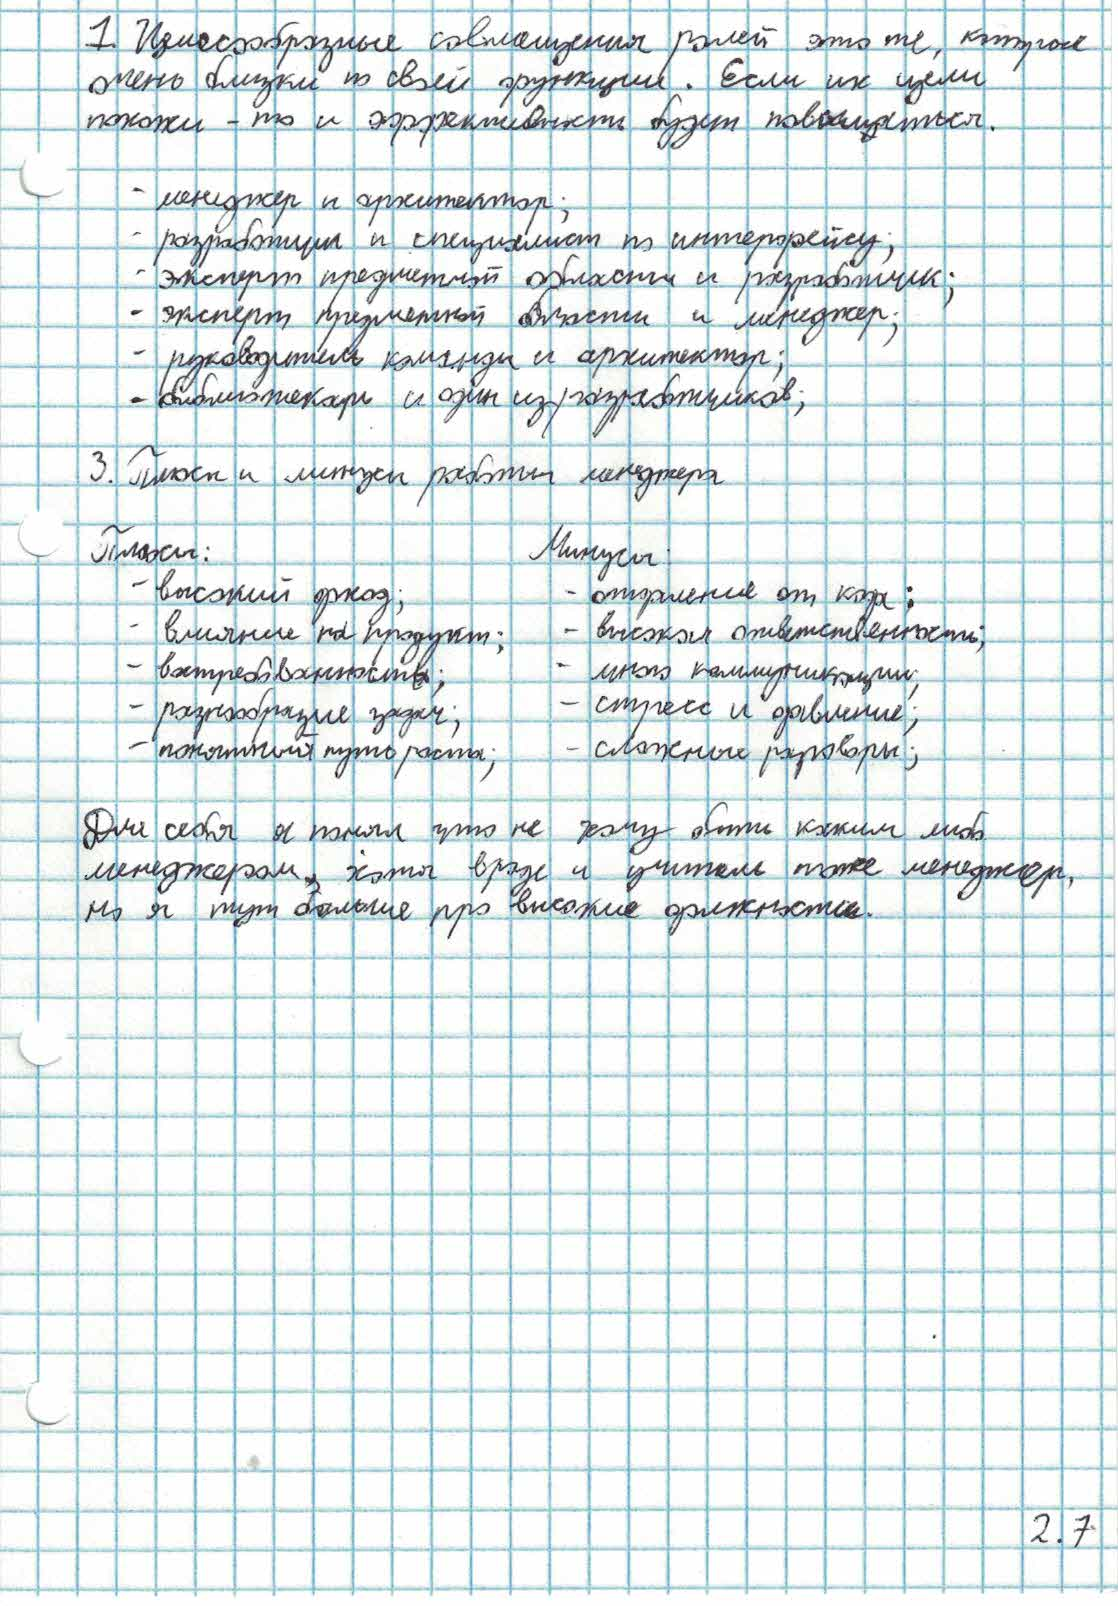
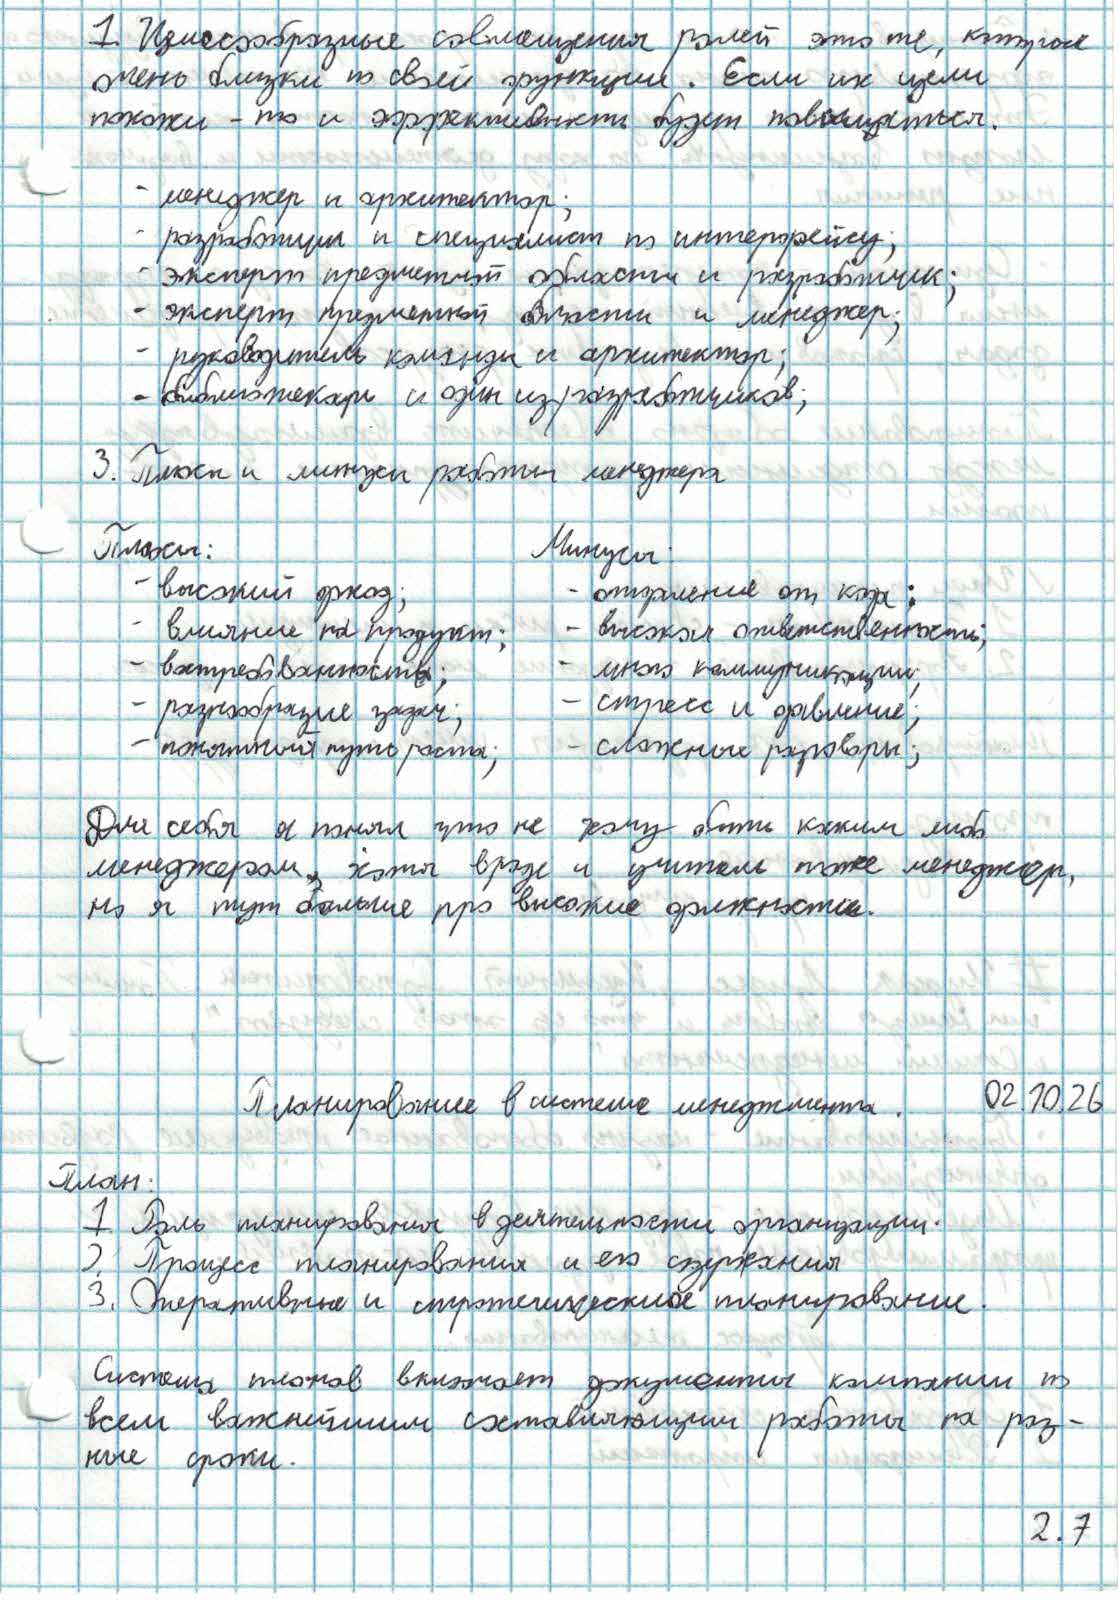
Update

diff --git a/Менеджмент/README.md b/Менеджмент/README.md
@@ -1,3 +1,5 @@
 # СОДЕРЖАНИЕ
 
 - [03-09-2026] | **Сущность и характерность современного менеджмента** | [**стр. 1**](001.jpg) [**стр. 2**](002.jpg) [**стр. 3**](003.jpg) [**стр. 4**](004.jpg) [**стр. 5**](005.jpg)
+- [02-10-2026] | **Планирование в системе менеджмента** | [**стр. 7**](007.jpg) [**стр. 8**](008.jpg) [**стр. 9**](009.jpg)
+- [11-11-2026] | **Управление персоналом** | [**стр. 9**](009.jpg) [**стр. 10**](010.jpg) [**стр. 11**](011.jpg) [**стр. 12**](012.jpg) [**стр. 13**](013.jpg)
